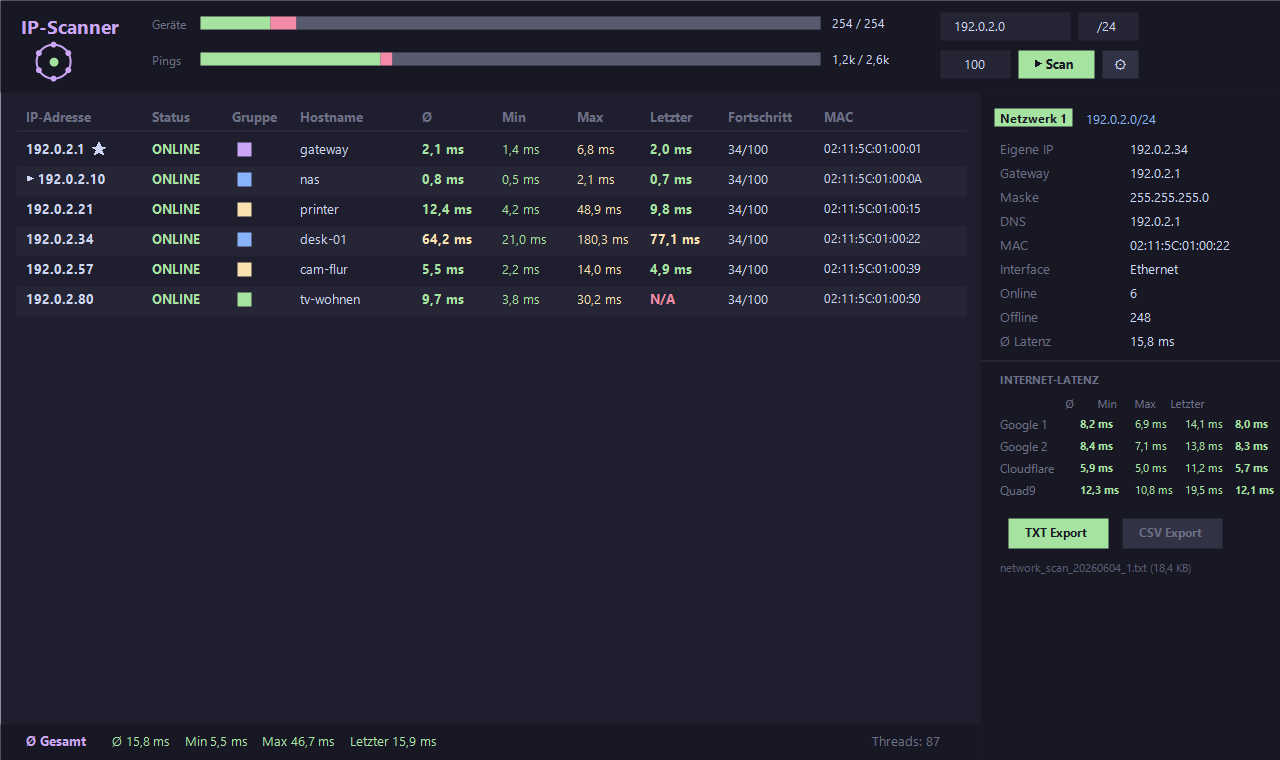
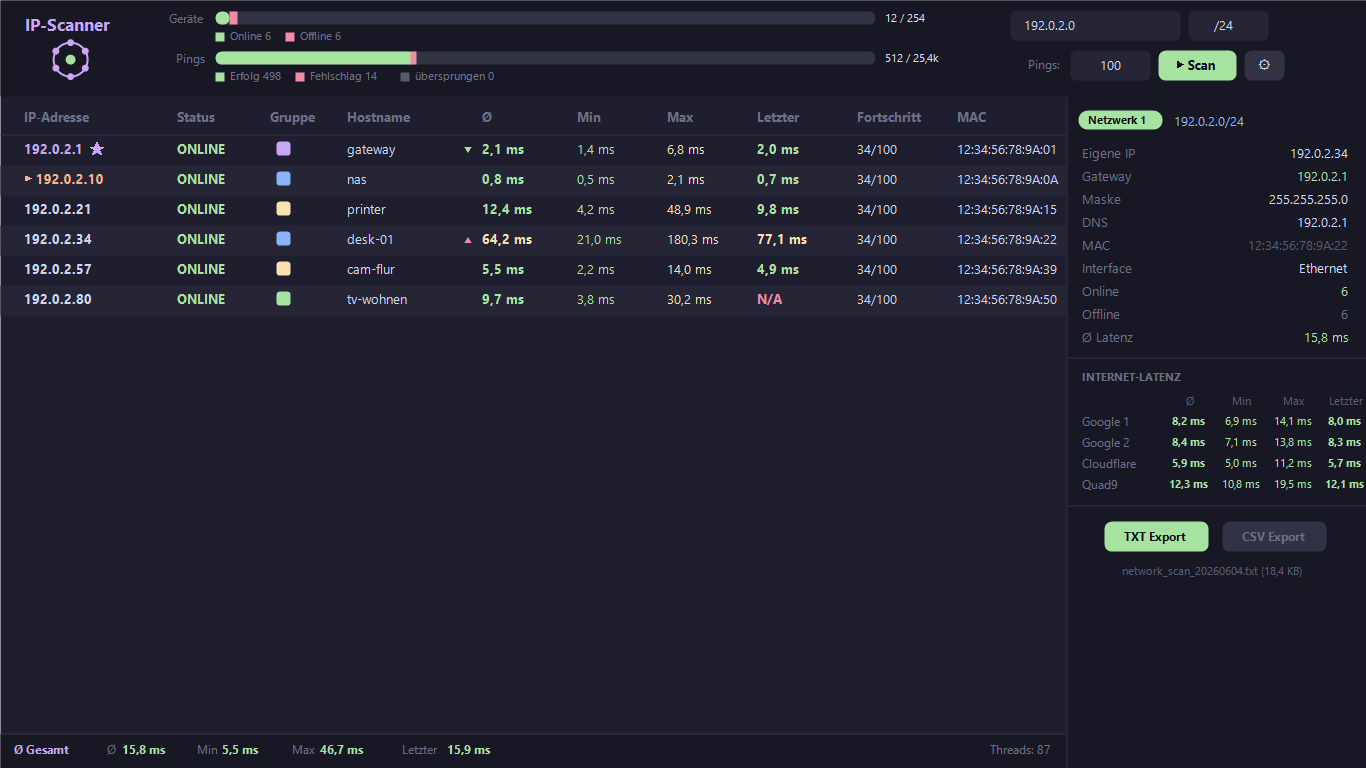
fix: global exception handlers stop silent app exit on stop, guard short subnet prefix; redo readme screenshot to match the real layout

diff --git a/src/IpScanner/App.xaml.cs b/src/IpScanner/App.xaml.cs
@@ -1,5 +1,23 @@
 using System.Windows;
+using IpScanner.Core.Localization;
 
 namespace IpScanner;
 
-public partial class App : Application { }
+public partial class App : Application
+{
+    protected override void OnStartup(StartupEventArgs e)
+    {
+        base.OnStartup(e);
+
+        // Never let a stray exception close the app silently (e.g. a race
+        // while stopping a scan) — surface it and keep running.
+        DispatcherUnhandledException += (_, args) =>
+        {
+            args.Handled = true;
+            MessageBox.Show(args.Exception.Message, Loc.ScanError,
+                MessageBoxButton.OK, MessageBoxImage.Error);
+        };
+        System.Threading.Tasks.TaskScheduler.UnobservedTaskException += (_, args) =>
+            args.SetObserved();
+    }
+}

diff --git a/src/IpScanner/Core/Net/Ipv4.cs b/src/IpScanner/Core/Net/Ipv4.cs
@@ -19,7 +19,10 @@ public static class Ipv4
     }
 
     public static string SubnetPrefix(string ip)
-        => string.Join('.', ip.Split('.')[..3]);
+    {
+        var parts = ip.Split('.');
+        return parts.Length >= 3 ? string.Join('.', parts[..3]) : ip;
+    }
 
     /// <summary>Numeric sort key for an IPv4 string (0 when unparseable).</summary>
     public static long SortKey(string ip)

diff --git a/README.md b/README.md
@@ -7,8 +7,6 @@ self-contained exe.
 
 ![IP-Scanner](docs/screenshot.png)
 
-*The screenshot shows synthetic sample data (TEST-NET addresses), not a real network.*
-
 ## Features
 
 - Two-phase scan: fast discovery sweep, then a configurable number of analysis
